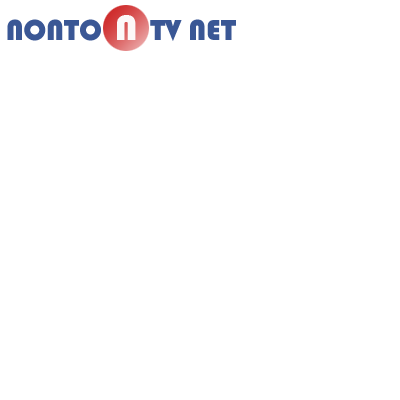
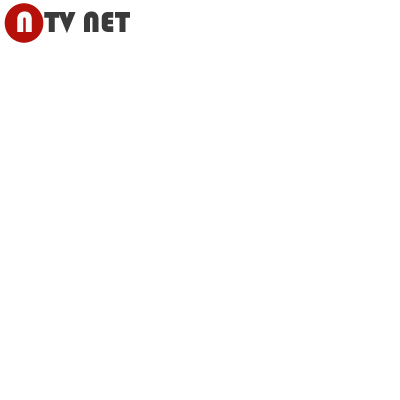
Nonton TV Net

Changed region(s): [[0.0, 0.0, 0.6, 0.15]]

diff --git a/public_html/index.html b/public_html/index.html
@@ -8,7 +8,7 @@ and open the template in the editor.
         <title>Nonton TV Net</title>
         <meta http-equiv="Content-Type" content="text/html; charset=UTF-8">
         <meta name="viewport" content="width=device-width, initial-scale=1, maximum-scale=1">
-        <link rel="shortcut icon" href="https://nonton-tv-net-project.googlecode.com/git/public_html/image/logocopy.png">
+        <link rel="shortcut icon" href="https://nonton-tv-net-project.googlecode.com/git/public_html/image/iconcopy.png">
         <link rel="stylesheet" href="https://nonton-tv-net-project.googlecode.com/git/public_html/css/bootstrap-theme.css" type="text/css" media="screen" title="default" />
         <link rel="stylesheet" href="https://nonton-tv-net-project.googlecode.com/git/public_html/css/bootstrap.css" type="text/css" media="screen" title="default" />
         <link rel="stylesheet" href="https://nonton-tv-net-project.googlecode.com/git/public_html/css/AppsCSS.css" type="text/css" media="screen" title="default" />

diff --git a/public_html/css/AppsCSS.css b/public_html/css/AppsCSS.css
@@ -16,7 +16,7 @@ body {
 }
 
 .logo-nav{
-    background-position: -63px 7px;
+    background-position: 0px 7px;
     background-size: 250px;
     width: 100px;
 }
